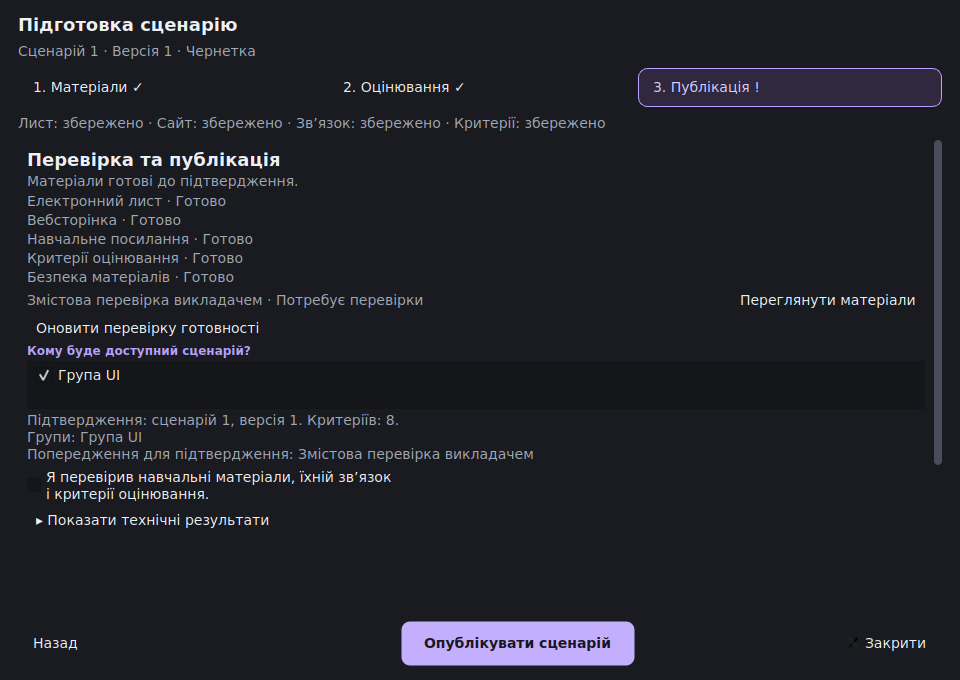
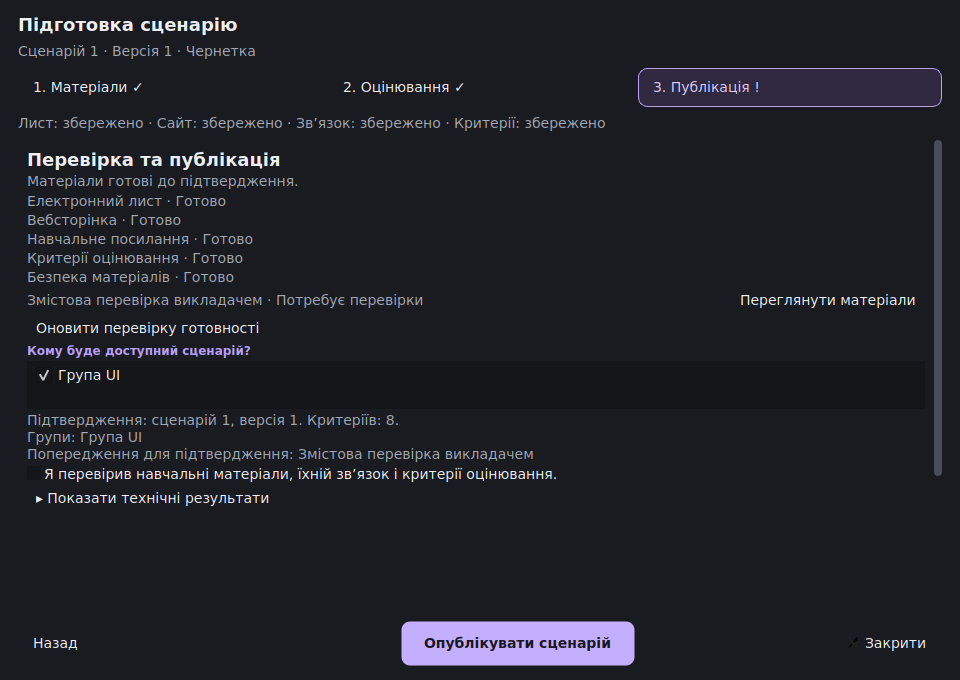
Wrap publication attestation and isolate native layout regression

Changed region(s): [[0.0312, 0.6794, 0.5938, 0.7721], [0.9688, 0.6794, 1.0, 0.7103]]

diff --git a/tests/ui/test_scenario_integration.py b/tests/ui/test_scenario_integration.py
@@ -13,13 +13,14 @@ from cyberforge.llm.factory import create_gateway
 from cyberforge.ui.navigation import View
 from cyberforge.ui.scenario_integration import IntegrationDialog
 from cyberforge.ui.shell import MainWindow
-from cyberforge.ui.theme import apply_theme
+from cyberforge.ui.theme import STYLE, apply_theme
 
 
 @pytest.fixture
 def integration_window(qtbot, qapp, scenario_env):
     env = scenario_env
-    apply_theme(qapp)
+    if qapp.styleSheet() != STYLE:
+        apply_theme(qapp)
     token = env.tokens["teacher"]
     emails = EmailMaterialService(env.service, create_gateway(), demo=True)
     webs = WebMaterialService(emails, demo=True)
@@ -1075,10 +1076,21 @@ def test_redesign_actual_final_confirmation_cancel_and_publish(
 
 @pytest.mark.parametrize("card_minimum", [0, 420])
 def test_redesign_resizing_keyboard_and_responsive_cards(
-    integration_window, qtbot, card_minimum
+    integration_window, qtbot, monkeypatch, card_minimum
 ):
-    from PySide6.QtWidgets import QBoxLayout
+    from PySide6.QtWidgets import QBoxLayout, QCheckBox
 
+    if card_minimum:
+        from cyberforge.ui import scenario_integration
+
+        class NativeCheckBox(QCheckBox):
+            def minimumSizeHint(self):
+                hint = super().minimumSizeHint()
+                if "\n" in self.text():
+                    hint.setWidth(max(668, hint.width()))
+                return hint
+
+        monkeypatch.setattr(scenario_integration, "QCheckBox", NativeCheckBox)
     d = dialog(integration_window, qtbot)
     # Reproduce Windows native minimum-size pressure without changing fonts.
     for i in range(d.material_cards.cards_layout.count()):
@@ -1126,6 +1138,14 @@ def test_redesign_resizing_keyboard_and_responsive_cards(
     qtbot.keyClick(disclosure.toggle, Qt.Key.Key_Space)
     assert disclosure.content.isVisible()
     assert disclosure.toggle.accessibleDescription() == "Розгорнуто"
+    d.navigate(2)
+    d.publication_step.ensureWidgetVisible(d.ack_label)
+    d.groups.item(0).setCheckState(Qt.CheckState.Checked)
+    assert not d.ack.isChecked()
+    qtbot.mouseClick(d.ack_label, Qt.MouseButton.LeftButton)
+    assert d.ack.isChecked() and d.focusWidget() is d.ack
+    qtbot.keyClick(d.ack, Qt.Key.Key_Space)
+    assert not d.ack.isChecked()
 
 
 def test_redesign_group_assignment_changes_clear_picker_and_acknowledgement(

diff --git a/src/cyberforge/ui/scenario_integration.py b/src/cyberforge/ui/scenario_integration.py
@@ -30,6 +30,7 @@ from cyberforge.scenario_integration.contracts import CRITERIA, criterion
 from cyberforge.ui.email_preview import MailPreview
 from cyberforge.ui.pages import label
 from cyberforge.ui.preparation_widgets import (
+    CheckLabel,
     Disclosure,
     MaterialCards,
     PreparationStack,
@@ -378,21 +379,20 @@ class IntegrationDialog(QDialog):
         layout.addWidget(self.group_hint)
         self.attestation_summary = label("")
         layout.addWidget(self.attestation_summary)
-        self.ack = QCheckBox(
-            "Я перевірив навчальні матеріали, їхній зв’язок і критерії оцінювання."
-        )
+        self.ack = QCheckBox()
         self.ack.setToolTip(
             "Підтвердження точних збережених джерел, вибраних груп і всіх "
             "зазначених попереджень."
         )
-        # A wrapped native checkbox label keeps the control usable on narrow windows.
-        self.ack.setText(
-            "Я перевірив навчальні матеріали, їхній зв’язок\nі критерії оцінювання."
-        )
         self.ack.setAccessibleName(
             "Я перевірив навчальні матеріали, їхній зв’язок і критерії оцінювання."
         )
-        layout.addWidget(self.ack)
+        self.ack_label = CheckLabel(self.ack.accessibleName(), self.ack)
+        attestation = QHBoxLayout()
+        attestation.setContentsMargins(0, 0, 0, 0)
+        attestation.addWidget(self.ack, 0, Qt.AlignmentFlag.AlignTop)
+        attestation.addWidget(self.ack_label, 1)
+        layout.addLayout(attestation)
         self.details = QPlainTextEdit()
         self.details.setReadOnly(True)
         self.details.setMinimumHeight(140)

diff --git a/src/cyberforge/ui/preparation_widgets.py b/src/cyberforge/ui/preparation_widgets.py
@@ -4,6 +4,7 @@ from PySide6.QtCore import QEvent, QSize, Qt
 from PySide6.QtWidgets import (
     QBoxLayout,
     QFrame,
+    QLabel,
     QPushButton,
     QStackedWidget,
     QVBoxLayout,
@@ -43,6 +44,29 @@ class Disclosure(QWidget):
             )
 
         self.toggle.toggled.connect(expand)
+
+
+class CheckLabel(QLabel):
+    """Wrapping text with the same click target behavior as a native checkbox."""
+
+    def __init__(self, text, checkbox):
+        super().__init__(text)
+        self.setTextFormat(Qt.TextFormat.PlainText)
+        self.setWordWrap(True)
+        self.setBuddy(checkbox)
+
+    def mouseReleaseEvent(self, event):
+        checkbox = self.buddy()
+        if (
+            event.button() == Qt.MouseButton.LeftButton
+            and checkbox is not None
+            and checkbox.isEnabled()
+        ):
+            checkbox.setFocus()
+            checkbox.click()
+            event.accept()
+        else:
+            super().mouseReleaseEvent(event)
 
 
 class MaterialCards(QWidget):

diff --git a/docs/DEVELOPMENT_LOG.md b/docs/DEVELOPMENT_LOG.md
@@ -3277,3 +3277,75 @@ schema/dependencies/WebBrowser/security/startup changes. Commit/push the verifie
 correction in existing branch/PR9; both platforms must pass on new exact HEAD.
 Final CI run/results will be recorded in PR9/delivery, preserving initial Windows
 failure history here. Phase8 REVIEW; owner acceptance pending; no merge/Phase9.
+
+## 16.11.2026 — UX Windows early gate: acknowledgement wrapping
+
+Correction commit2a223b89a11ae81c14045c420e3a3f59f4e05d9d, workflow43886284383:
+early Windows gate now reaches step2 at600px, confirming material stacking fixed.
+It reports2resize failures/2passes/34deselected/13.49s: publication content686px
+in556px viewport, in both ordinary and card-pressure variants. Full Windows suite
+is correctly skipped after early failure; Linux complete suite continues.
+
+Root: native QCheckBox multiline text minimum-size hint. Local regression models
+668px native multiline hint (plus18px content margins = actual686px), preserving
+all original widths and assertions. Before correction: **1failed/1passed/11.12s**,
+exact same step2 686>556. Native card420px pressure remains covered as well.
+
+Use native textless QCheckBox plus wrapping plain-text CheckLabel with buddy/full
+Ukrainian accessible name. Label click focuses/toggles the native checkbox; keyboard
+Space remains native. No review semantics/service checks changed. The regression
+also verifies label click, focus ownership and Space toggling, with an authorized
+group selected to keep the source/group acknowledgement stable during interaction.
+
+After correction, narrow tests: **2passed/36deselected/10.56s**.
+`QT_QPA_PLATFORM=wayland CYBERFORGE_UX_SCREENSHOTS=docs/screenshots UV_CACHE_DIR=/tmp/cyberforge-uv-cache uv run --no-sync pytest tests/ui/test_scenario_integration.py -k 'compact_page or actual_constructor_button or resizing_keyboard or end_to_end_result or actual_final_confirmation' -q --tb=short`
+— **6passed/32deselected/39.48s**, including actual final Cancel/Publish, full
+publish/history, native-pressure cases and3WebEngine cycles. Screenshots refreshed;
+new publication view visually inspected. Ruff127files/diff checks PASS. New stable
+full run follows; no further source/test edits during it. Backend/contracts/DB/
+WebBrowser/security/dependencies unchanged. Owner AGENTS.md still excluded.
+
+Second-head Linux CI completed SUCCESS: **1012passed/456.97s**, Ruff127files,
+Web compact3PASS, strengthened preparation early gate4PASS and startup smoke PASS.
+This is workflow43886284383 / head2a223b8; Windows early acknowledgement-width
+failures remain recorded above. The final correction requires a new exact-head
+CI run on both platforms after its fresh complete local gate.
+
+### Final verification harness isolation
+
+First full run of wrapped-checkbox candidate: **1011passed/1setup error/1418.65s**.
+The error occurs in the following integration fixture's apply_theme(qapp) at
+app.setStyle("Fusion"), with an old AdminPage.heightForWidth callback reporting
+missing layout. It is a Qt fixture/global-style cleanup error, not an assertion
+in the wrapped-checkbox interaction. Nothing was committed/pushed from this run.
+
+Keep AdminPage and application behavior unchanged. The integration fixture now
+reuses an already identical STYLE instead of repeatedly resetting global Qt style.
+Native multiline-size pressure uses a test-local QCheckBox subclass substituted
+only into the integration module, rather than monkeypatching Qt's global class.
+This retains the668px native-hint regression while isolating Qt virtual callbacks.
+
+Same resize variants plus the following group-assignment fixture:
+`UV_CACHE_DIR=/tmp/cyberforge-uv-cache uv run --no-sync pytest tests/ui/test_scenario_integration.py -k 'resizing_keyboard or group_assignment_changes' -q --tb=short`
+— **3passed/35deselected/13.02s**. With QT_QPA_PLATFORM=wayland, identical selector:
+**3passed/35deselected/15.00s**. No tests removed/deselected from the new complete
+run. Ruff127files/diff PASS; fresh stable full gate runs before commit/push.
+
+### Final wrapped-attestation / isolated-harness gate
+
+`UV_CACHE_DIR=/tmp/cyberforge-uv-cache uv run --no-sync pytest -q --tb=short -o faulthandler_timeout=120`
+— **1012passed/1119.68s**, exit0, no errors. All992prior+20new/38Phase8 UI retained;
+both native-pressure variants and the next fixture pass in complete-suite order.
+Ruff lint/format127files and diff checks PASS. Application/test sources unchanged
+throughout this final complete run; only evidence documentation appended.
+
+Real WSLg application gate6PASS/39.48s and isolated fixture sequence3PASS/15.00s;
+local fixture sequence3PASS/13.02s. Refreshed publication/history/Web captures are
+synthetic; final publication view inspected with wrapping, clickable Ukrainian
+attestation and native keyboard control. Existing wide-layout material/rubric/
+Email/result images remain current. No backend/contracts/DB/WebBrowser/security/
+dependency/startup changes. Final increment10files (2UI, tests,4docs,3screenshots),
+combined redesign16files; owner AGENTS.md excluded. Push a focused third task
+commit, then require both CI platforms on its exact HEAD. Final run/results in
+PR9/delivery; retain both Windows findings and the local harness failure above.
+Phase8 stays REVIEW, owner acceptance pending; no merge or Phase9.

diff --git a/docs/PHASE_8_ACCEPTANCE.md b/docs/PHASE_8_ACCEPTANCE.md
@@ -414,3 +414,20 @@ checks PASS; native-width2PASS and real WSLg5PASS. All992prior+20new cases retai
 38Phase8 UI total. Source/tests stable during final full run. Combined16task files,
 owner AGENTS.md excluded. New exact-head CI results follow in PR9/delivery; initial
 Windows finding retained above. Owner acceptance and native Windows11 remain pending.
+
+### Windows acknowledgement wrapping finding
+
+Second early CI gate43886284383 confirms card fix and exposes publication-step
+686px native checkbox minimum in556px viewport (2resize failures/2passes).
+Deterministic668px multiline-checkbox hint reproduces exact failure locally.
+Wrapped plain-text buddy label preserves native checkbox, full Ukrainian accessible
+name, label clicking, focus and Space; local2PASS, real WSLg6PASS. Publication
+screenshot refreshed/inspected. All width assertions and all prior tests retained.
+Final complete local suite and new exact-head CI follow; Phase8 remains REVIEW.
+
+Final complete gate after checkbox/harness isolation: **1012passed/1119.68s**, no
+errors; Ruff127files/diff checks PASS, real WSLg application6PASS and isolated fixture
+sequence3PASS. All992prior+20new/38Phase8 UI retained. Final sources stable throughout
+full run; screenshots reflect final wrapping behavior. Exact final commit/platform
+CI results follow in PR9/delivery. Combined16task files; owner AGENTS.md excluded.
+Engineering local gate PASS; Phase8 REVIEW and owner acceptance pending.

diff --git a/docs/IMPLEMENTATION_PLAN.md b/docs/IMPLEMENTATION_PLAN.md
@@ -1170,3 +1170,17 @@ Corrected final local gate: **1012passed/1403.08s**, Ruff127files PASS, native-w
 focused2PASS, real WSLg5PASS. New stable run retains992prior+20new/38Phase8 UI.
 Combined redesign16files; corrective increment8files; owner AGENTS.md excluded.
 New final-head Linux/Windows CI follows in PR9/delivery. Phase8 stays REVIEW.
+
+### UX acknowledgement native-width correction
+
+Second Windows early gate confirms cards fixed, exposes step2 native multiline
+QCheckBox minimum686>556. Native668px hint regression reproduces1FAIL/1PASS.
+Wrapping buddy label plus native checkbox fixes2PASS; label click/focus/Space
+assertions retained. Real WSLg compact/resize/lifecycle/full flow/final modal6PASS,
+Ruff127files PASS. New stable full run required; final CI must pass both platforms.
+Scope remains UI/tests/docs/CI, Phase8 REVIEW, no merge/Phase9.
+
+Final wrapped-attestation/harness gate: **1012passed/1119.68s**, zero errors;
+Ruff127files PASS, real WSLg6PASS plus isolated fixture3PASS. All992prior+20new/
+38Phase8 UI retained. Final increment10files, combined16; owner AGENTS.md excluded.
+Final-head Linux/Windows CI follows in PR9/delivery. Phase8 REVIEW; no merge/Phase9.

diff --git a/docs/adr/0008-scenario-integration-publication.md b/docs/adr/0008-scenario-integration-publication.md
@@ -115,3 +115,10 @@ and actual card minima, not the content widget's own width. Deterministic420px/c
 regression reproduces the initial Windows overflow and preserves all assertions;
 early CI now covers ordinary and native-pressure resizing. This is a presentation
 correction only; modal/WebEngine/backend decisions above remain unchanged.
+
+Windows native QCheckBox can retain an oversized minimum for multiline text.
+Attestation uses a native textless checkbox plus wrapping plain-text buddy label
+with full Ukrainian accessible name, click/focus/Space behavior preserved. The
+same narrow-layout regression models both card and multiline-checkbox native
+minimum pressure. This changes geometry only; attestation binding remains in the
+existing readiness/publication services.
